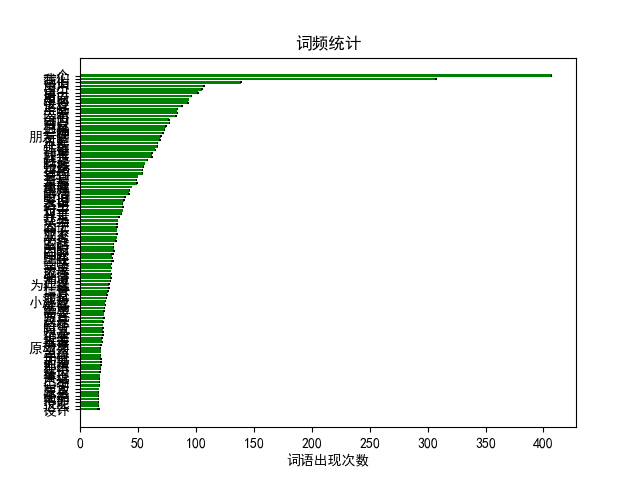
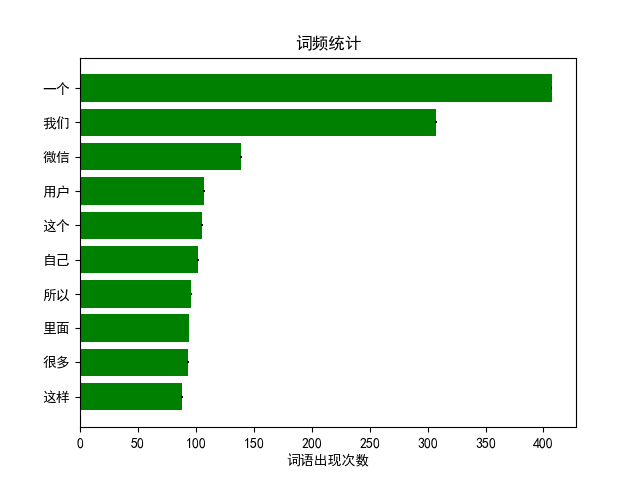
4.3训练营总结

Changed region(s): [[0.0312, 0.125, 0.875, 0.875]]

diff --git a/19100205/Ceasar1978/mymodule/stats_word.py b/19100205/Ceasar1978/mymodule/stats_word.py
@@ -31,7 +31,7 @@ def stats_text_cn(text):
             text_list1.append(j)
     import collections
     # count = int(input('请输入要限制输出的元素个数：'))
-    dic = collections.Counter(text_list1).most_common(100)  #调用标准库collections.Counter，按出现次数从大到小排列
+    dic = collections.Counter(text_list1).most_common(10)  #调用标准库collections.Counter，按出现次数从大到小排列
     return dic
 
 

diff --git a/19100205/Ceasar1978/d13_training3.py b/19100205/Ceasar1978/d13_training3.py
@@ -33,7 +33,7 @@ def auto_reply(msg):
     
     dic = dict(dic) # counter函数输出的结果是一个二维list，而非字典，此步操作将二维list转换为字典。
 
-    
+    # 以下是通过matplotlib和numpy库将词频分析结果进行图形化
     import matplotlib.pyplot as plt
     import numpy as ny
     
